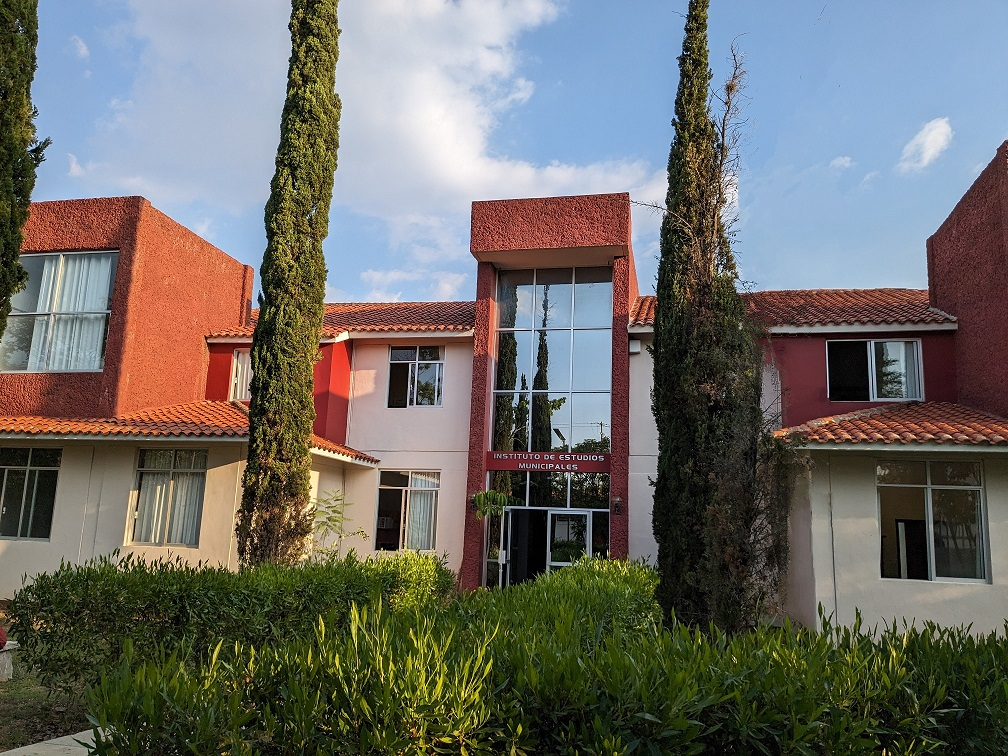
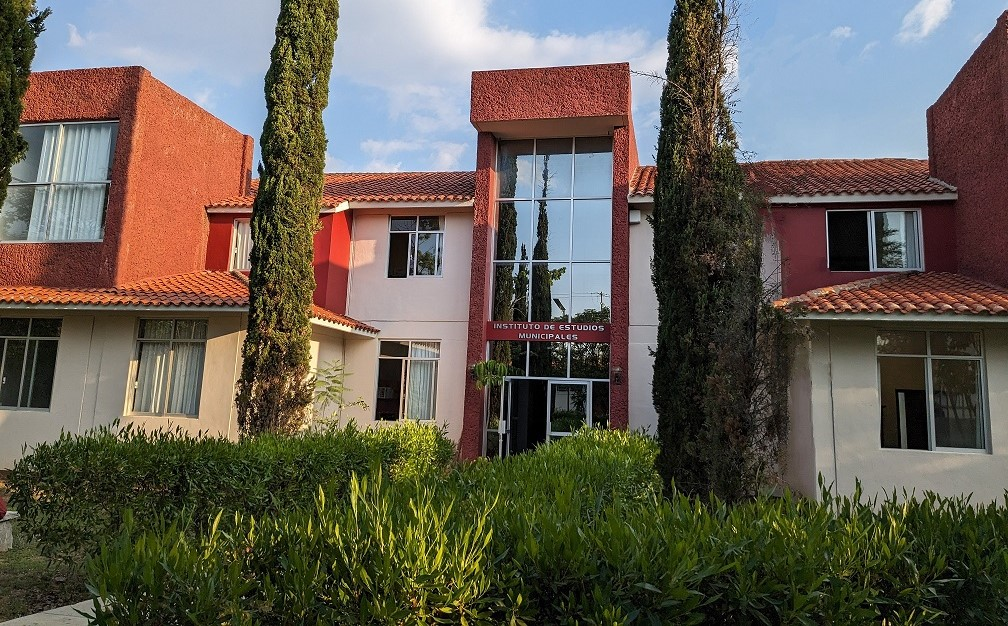
create struct for all sections

diff --git a/inv-activas.html b/inv-activas.html
@@ -4,8 +4,9 @@
     <meta charset="UTF-8">
     <meta http-equiv="X-UA-Compatible" content="IE=edge">
     <meta name="viewport" content="width=device-width, initial-scale=1.0">
-    <title>Unsis</title>
+    <title>Investigaciones</title>
     <link rel="stylesheet" href="./styleHeaderFooter.css">
+    <link rel="stylesheet" href="./style-inv-act.css">
     <script src="https://kit.fontawesome.com/c2ab0265f5.js" crossorigin="anonymous"></script>
 </head>
 <body>
@@ -45,7 +46,31 @@
         <!-- <img src="https://www.unsis.edu.mx/images/iem.JPG" alt="Imagen del instuto" class="img-nav"> -->
     </header>
     <main>
-        
+        <h1>INVESTIGACIÓNES</h1>
+        <section>
+            <h2>TITULO</h2>
+            <p>Lorem ipsum dolor sit amet, consectetur adipisicing elit. Quos, doloribus! Velit repellendus commodi enim, vel laborum vero nostrum facere eligendi sed ex culpa laboriosam asperiores repellat cupiditate earum debitis tenetur?</p>
+        </section>
+        <section>
+            <h2>TITULO</h2>
+            <p>Lorem ipsum dolor sit amet, consectetur adipisicing elit. Quos, doloribus! Velit repellendus commodi enim, vel laborum vero nostrum facere eligendi sed ex culpa laboriosam asperiores repellat cupiditate earum debitis tenetur?
+        </section>
+        <section>
+            <h2>TITULO</h2>
+            <p>Lorem ipsum dolor sit amet, consectetur adipisicing elit. Quos, doloribus! Velit repellendus commodi enim, vel laborum vero nostrum facere eligendi sed ex culpa laboriosam asperiores repellat cupiditate earum debitis tenetur?
+        </section>
+        <section>
+            <h2>TITULO</h2>
+            <p>Lorem ipsum dolor sit amet, consectetur adipisicing elit. Quos, doloribus! Velit repellendus commodi enim, vel laborum vero nostrum facere eligendi sed ex culpa laboriosam asperiores repellat cupiditate earum debitis tenetur?</p>
+        </section>
+        <section>
+            <h2>TITULO</h2>
+            <p>Lorem ipsum dolor sit amet, consectetur adipisicing elit. Quos, doloribus! Velit repellendus commodi enim, vel laborum vero nostrum facere eligendi sed ex culpa laboriosam asperiores repellat cupiditate earum debitis tenetur?
+        </section>
+        <section>
+            <h2>TITULO</h2>
+            <p>Lorem ipsum dolor sit amet, consectetur adipisicing elit. Quos, doloribus! Velit repellendus commodi enim, vel laborum vero nostrum facere eligendi sed ex culpa laboriosam asperiores repellat cupiditate earum debitis tenetur?
+        </section>
     </main>
     <footer>
         <ul class="ul-footer">

diff --git a/style-inv-act.css b/style-inv-act.css
@@ -1,0 +1,68 @@
+main {
+    display: grid;
+    grid-template-columns: repeat(12, 1fr);
+    grid-template-rows: repeat(3, 1fr);
+    height: 100vh;
+}
+
+main h1 {
+    text-align: center;
+    font-size: 3rem;
+    grid-column-start: 3;
+    grid-column-end: 11;
+    padding-top: 5rem;
+}
+
+section h2 {
+    font-size: 2rem;
+    text-align: center;
+}
+
+section p {
+    font-size: 1.5rem;
+}
+
+main section:first-of-type {
+    grid-column-start: 3;
+    grid-column-end: 5;
+    grid-row-start: 2;
+    grid-row-end: 3;
+}
+
+main section:nth-of-type(2) {
+    grid-column-start: 6;
+    grid-column-end: 8;
+    grid-row-start: 2;
+    grid-row-end: 3;
+}
+
+main section:nth-of-type(3) {
+    grid-column-start: 9;
+    grid-column-end: 11;
+    grid-row-start: 2;
+    grid-row-end: 3;
+}
+
+
+
+main section:nth-of-type(4) {
+    grid-column-start: 3;
+    grid-column-end: 5;
+    grid-row-start: 3;
+    grid-row-end: 4;
+}
+
+main section:nth-of-type(5) {
+    grid-column-start: 6;
+    grid-column-end: 8;
+    grid-row-start: 3;
+    grid-row-end: 4;
+}
+
+main section:nth-of-type(6) {
+    grid-column-start: 9;
+    grid-column-end: 11;
+    grid-row-start: 3;
+    grid-row-end: 4;
+}
+

diff --git a/perfil-profesores.html b/perfil-profesores.html
@@ -33,10 +33,10 @@
                 <a href="#" class="a-ul">
                     <li class="li-nav">Personal</li>
                 </a>
-                <a href="#" class="a-ul">
+                <a href="./trayectoria.html" class="a-ul">
                     <li class="li-nav">Trayectoria</li>
                 </a>
-                <a href="#" class="a-ul">
+                <a href="./inv-activas.html" class="a-ul">
                     <li class="li-nav">Investigaciones activas</li>
                 </a>
                 <a href="#" class="a-ul">

diff --git a/trayectoria.html b/trayectoria.html
@@ -49,7 +49,7 @@
         <h1>TRAYECTORIA</h1>
 
         <picture class="img-main">
-            <img src="./images/instalaciones/Instituto2.jpg" alt="Imagen de Instituto">
+            <img src="./images/instalaciones/Instituto4.jpg" alt="Imagen de Instituto">
         </picture>
         <section>
             <h2>MISION</h2>
